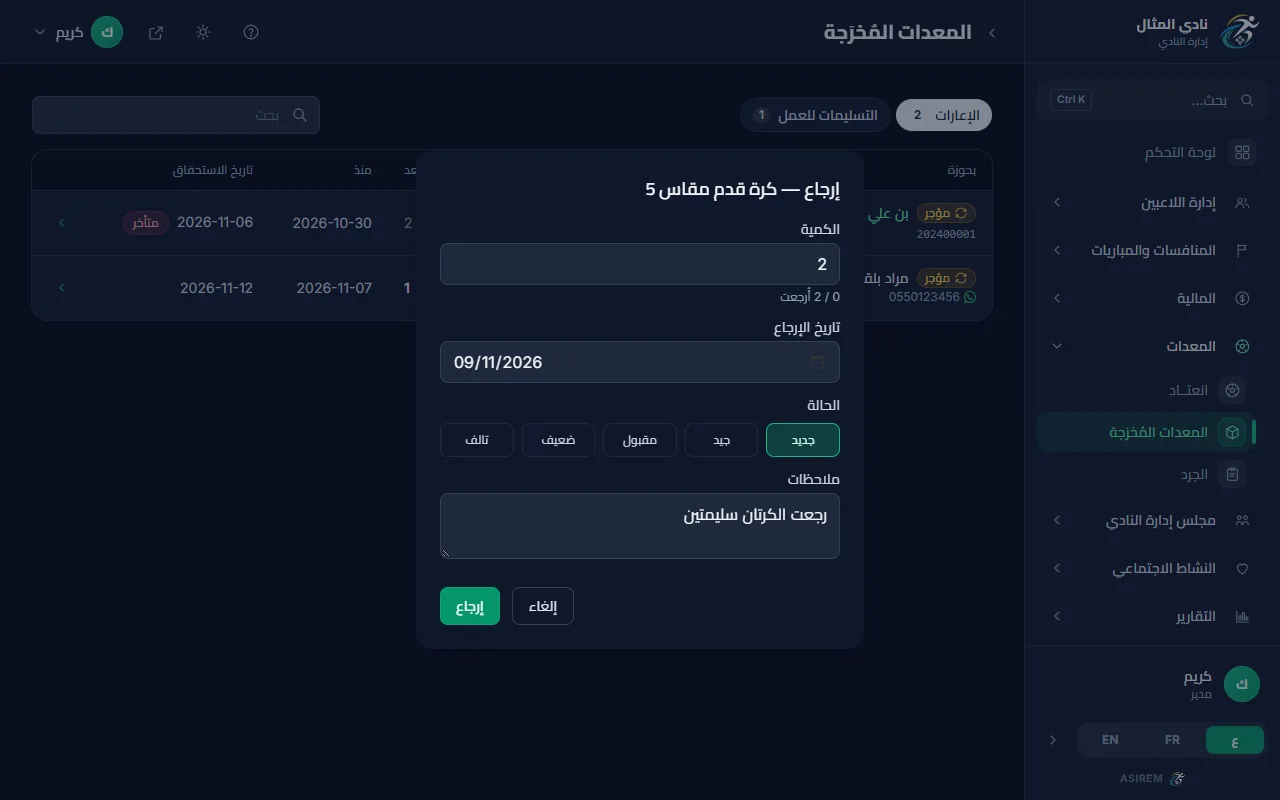
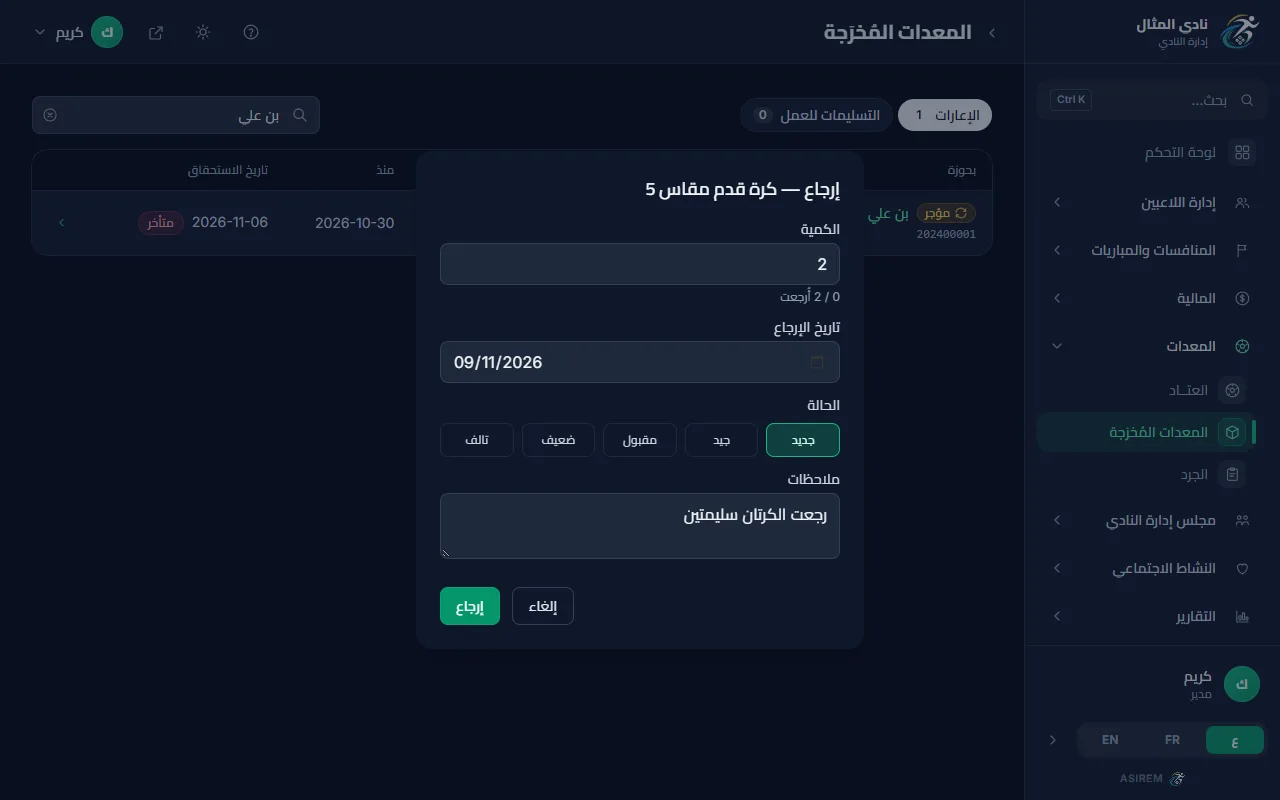
docs(help): equipment lend/return/damage review fixes

diff --git a/resources/help/shots.js b/resources/help/shots.js
@@ -1306,14 +1306,7 @@ export default [
         name: 'eq-return-search',
         url: '/equipment/out',
         targets: ['eq-out-search', 'eq-out-overdue-3', 'eq-out-return-3'],
-        before: async (page) => {
-            await Promise.all([
-                page.waitForResponse((r) => r.url().includes('/equipment/out') && r.url().includes('search=')),
-                page.locator('[data-help="eq-out-search"] input').fill('بن علي'),
-            ]);
-            await page.waitForLoadState('networkidle');
-            await blur(page);
-        },
+        before: async (page) => { await searchBenAli(page); },
     },
     {
         // The return window: 2 still out, today, «الحالة» on the lot's «جديد», a note typed.
@@ -1321,6 +1314,7 @@ export default [
         url: '/equipment/out',
         targets: ['eq-ret-quantity', 'eq-ret-date', 'eq-ret-condition', 'eq-ret-notes', 'eq-ret-save'],
         before: async (page) => {
+            await searchBenAli(page);
             await page.locator('[data-help="eq-out-return-3"]').click();
             await page.locator('[data-help="eq-ret-notes"] textarea').fill('رجعت الكرتان سليمتين');
             await blur(page);
@@ -1358,6 +1352,28 @@ export default [
         },
     },
     { name: 'eq-damage-history', url: '/equipment/items/8/history', targets: [] },
+    {
+        // Writes: «ساعة توقيت 3» (item 9) is marked lost through the UI so its «استعادة» shows;
+        // `after` restores it through the UI, back to the seeded state.
+        name: 'eq-damage-restore',
+        url: '/equipment/catalogs/4',
+        targets: ['eq-restore-9'],
+        before: async (page) => {
+            await page.locator('[data-help="eq-lost-9"]').click();
+            await page.locator('[data-help="confirm-ok"]').waitFor({ state: 'visible' });
+            await page.locator('[data-help="confirm-ok"]').click();
+            await page.locator('[data-help="eq-restore-9"]').waitFor({ state: 'visible' });
+            // Reload so the «تم تسجيل المعدات كمفقودة.» toast is not in the picture.
+            await page.reload({ waitUntil: 'networkidle' });
+            await page.locator('[data-help="eq-restore-9"]').waitFor({ state: 'visible' });
+        },
+        after: async (page) => {
+            await page.locator('[data-help="eq-restore-9"]').click();
+            await page.locator('[data-help="confirm-ok"]').waitFor({ state: 'visible' });
+            await page.locator('[data-help="confirm-ok"]').click();
+            await page.locator('[data-help="eq-lost-9"]').waitFor({ state: 'visible', timeout: 10000 });
+        },
+    },
     {
         name: 'fin-tx-saved',
         url: '/transactions/create',
@@ -1691,6 +1707,16 @@ async function openReceive(page) {
 async function openRent(page, itemId) {
     await page.locator(`[data-help="eq-rent-${itemId}"]`).click();
     await page.locator('[data-help="eq-rent-rental"]').waitFor({ state: 'visible' });
+}
+
+/** «المعدات المُخرَجة»: types «بن علي» in the search and waits for the filtered list. */
+async function searchBenAli(page) {
+    await Promise.all([
+        page.waitForResponse((r) => r.url().includes('/equipment/out') && r.url().includes('search=')),
+        page.locator('[data-help="eq-out-search"] input').fill('بن علي'),
+    ]);
+    await page.waitForLoadState('networkidle');
+    await blur(page);
 }
 
 /** Rent window: picks أمين قاسمي in the «لاعب» list (typed, then the first match). */

diff --git a/resources/js/Pages/Equipment/Catalog/Show.vue b/resources/js/Pages/Equipment/Catalog/Show.vue
@@ -503,7 +503,7 @@ function submitImport() {
                                         <IconButton v-if="item.status === 'Available' && can('equipment', 'edit')" icon="wrench" :label="t('send_to_repair')" plain size="sm" :data-help="'eq-repair-' + item.id" @click="repairItemId = item.id" />
                                         <IconButton v-if="item.status === 'Under Repair' && can('equipment', 'edit')" icon="check" :label="t('mark_fixed')" variant="success" plain size="sm" :data-help="'eq-fixed-' + item.id" @click="fixedItemId = item.id" />
                                         <IconButton v-if="['Available','Rented'].includes(item.status) && can('equipment', 'edit')" icon="xcircle" :label="t('lost')" variant="danger" plain size="sm" :data-help="'eq-lost-' + item.id" @click="lostItemId = item.id" />
-                                        <IconButton v-if="item.status === 'Lost' && can('equipment', 'edit')" icon="restore" :label="t('restore')" variant="success" plain size="sm" @click="foundItemId = item.id" />
+                                        <IconButton v-if="item.status === 'Lost' && can('equipment', 'edit')" icon="restore" :label="t('restore')" variant="success" plain size="sm" :data-help="'eq-restore-' + item.id" @click="foundItemId = item.id" />
                                         <IconButton :href="route('equipment.items.history', item.id)" icon="calendar" :label="t('history')" plain size="sm" :data-help="'eq-history-' + item.id" />
                                         <IconButton v-if="can('equipment', 'edit')" icon="pencil" :label="t('edit')" plain size="sm" @click="openEdit(item)" />
                                         <IconButton v-if="!item.open_rentals?.length && can('equipment', 'delete')" icon="trash" :label="t('delete')" variant="danger" plain size="sm" @click="deleteItemId = item.id" />
@@ -576,7 +576,7 @@ function submitImport() {
                                 :class="rentForm.type === 'assignment' ? 'bg-primary-100 dark:bg-primary-500/25 border-primary-500 text-primary-800 dark:text-primary-100' : 'bg-white dark:bg-slate-900 border-slate-200 dark:border-slate-800 text-slate-600 dark:text-slate-300'"
                                 class="rounded-lg border px-3 py-2 text-sm font-medium transition-colors">{{ t('equipment.assignment') }}</button>
                         </div>
-                        <p v-if="rentForm.type === 'assignment'" data-help="eq-rent-assignment-hint" class="text-xs text-slate-500 dark:text-slate-400">{{ t('equipment.assignment_hint') }}</p>
+                        <p v-if="rentForm.type === 'assignment'" class="text-xs text-slate-500 dark:text-slate-400">{{ t('equipment.assignment_hint') }}</p>
 
                         <!-- Recipient: a team player, or a free-text person from outside the club. -->
                         <div class="grid gap-2" :class="rentForm.type === 'rental' ? 'grid-cols-2' : 'grid-cols-1'">

diff --git a/resources/help/ar/equipment/return-equipment.md b/resources/help/ar/equipment/return-equipment.md
@@ -23,7 +23,7 @@ related: [equipment/lend-assign, equipment/damage-repair-lost]
 :::
 
 :::step اضغط زر «إرجاع»
-في آخر السطر، اضغط على زر السهم. عندما تضع الفأرة عليه يظهر اسمه «إرجاع». تظهر نافذة «إرجاع — كرة قدم مقاس 5». لا ترى الزر؟ تحتاج إلى صلاحية «تعديل» في «المعدات».
+في آخر السطر، اضغط على زر علامة ‹. عندما تضع الفأرة عليه يظهر اسمه «إرجاع». تظهر نافذة «إرجاع — كرة قدم مقاس 5». لا ترى الزر؟ تحتاج إلى صلاحية «تعديل» في «المعدات».
 ::figure eq-return-search ring=eq-out-return-3 zoom=eq-out-return-3
 :::
 
@@ -43,7 +43,7 @@ related: [equipment/lend-assign, equipment/damage-repair-lost]
 :::
 
 :::tip
-زر السهم نفسه موجود في صفحة الصنف. في عمود «بحوزة» يظهر كل من عنده وحدات من السطر. بجانب كل اسم زر «إرجاع» خاص به. يفتح النافذة نفسها.
+زر علامة ‹ نفسه موجود في صفحة الصنف. في عمود «بحوزة» يظهر كل من عنده وحدات من السطر. بجانب كل اسم زر «إرجاع» خاص به. يفتح النافذة نفسها.
 :::
 
 ::figure eq-lend-assign-catalog ring=eq-holder-return-3 zoom=eq-holder-return-3
